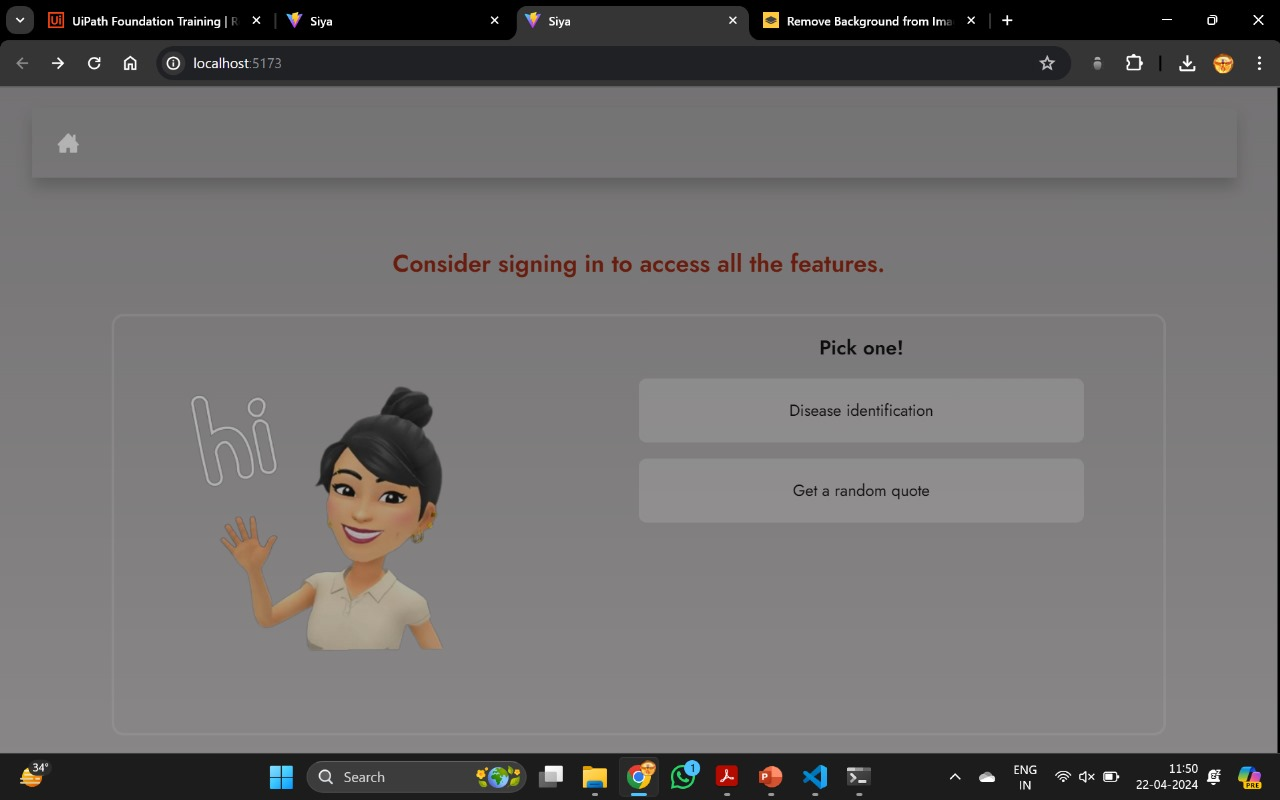
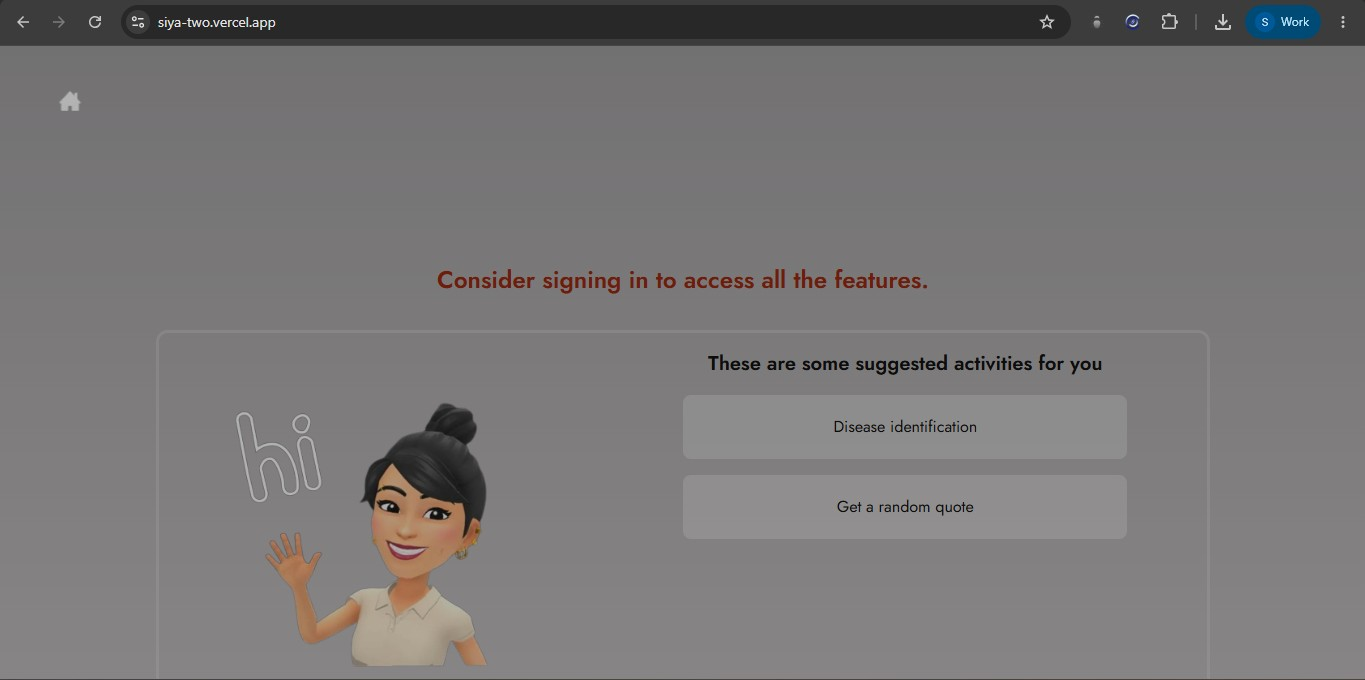
Refactor the hero desing , personal and project info

diff --git a/src/components/Hero.jsx b/src/components/Hero.jsx
@@ -1,14 +1,18 @@
 import { personalInfo } from '../data/personalInfo'
 
 const codeLines = [
-  'const agent = await createAgent({ tools, model: "gpt-4o" });',
-  'router.post("/api/query", auth, async (req, res) => {',
-  '  const sql = await textToSql(req.body.prompt);',
-  'export default function useForecast(series) {',
-  'db.collection("tickets").aggregate([{ $group: { _id: "$status" } }])',
-  'if (camel.score < threshold) emitEarlyWarning(bank.id);',
+  'router.post("/api/insight/query", authMiddleware, async (req, res) => { const sql = await textToSql(req.body.prompt, bankingSchema); return res.json({ sql }); });',
+  'const camelScore = computeCamelScore({ capital, assetQuality, management, earnings, liquidity }, { adaptiveModel: forecastingRouter.select(bankId) });',
+  'router.get("/api/ews/alerts", authMiddleware, async (req, res) => { const alerts = await scanRiskThresholds(camelScore); return res.status(200).json(alerts); });',
+  'router.post("/api/notes", authMiddleware, rateLimiter, async (req, res) => { const note = await Note.create({ ...req.body, userId: req.user.id }); return res.json(note); });',
+  'const diagnosis = await predictDisease(symptoms, { model: randomForestClassifier, datasetRows: 4920, confidenceThreshold: 0.72 });',
+  'router.post("/api/siya/predict", async (req, res) => { const result = await diagnosisEngine.run(req.body.symptoms); return res.json(result); });',
+  'const activityLabel = resNetClassifier.predict(sensorWindow, { accuracy: 0.97, classes: activityLabels, device: "edge-realtime" });',
+  'router.post("/api/har/classify", async (req, res) => { const label = await resNetClassifier.predict(req.body.frames); return res.json({ label }); });',
+  'const githubAnswer = await retrievalChain.invoke({ query: req.body.question, retriever: githubReadOnlyRetriever, llm: azureOpenAI });',
+  'router.post("/api/github-agent/ask", authMiddleware, async (req, res) => { const answer = await githubAgent.answer(req.body.question); return res.json({ answer }); });',
 ]
-const codeRain = Array.from({ length: 40 }, (_, i) => codeLines[i % 6]).join('\n')
+const codeRain = Array.from({ length: 60 }, (_, i) => codeLines[i % codeLines.length]).join('\n')
 
 export default function Hero() {
   const { name, role, roleSecondary, tagline, stats } = personalInfo

diff --git a/src/components/Projects.jsx b/src/components/Projects.jsx
@@ -3,8 +3,9 @@ import aiwrite from '../assets/project/aiwrite.jpg'
 import human from '../assets/project/human.jpg'
 import notesApp from '../assets/project/notes_app.png'
 import siya from '../assets/project/siya.jpg'
+import github from '../assets/project/github.png'
 
-const thumbs = { 'aiwrite.jpg': aiwrite, 'human.jpg': human, 'notes_app.png': notesApp, 'siya.jpg': siya }
+const thumbs = { 'aiwrite.jpg': aiwrite, 'human.jpg': human, 'notes_app.png': notesApp, 'siya.jpg': siya, 'github.png': github }
 
 function ProjectCard({ project }) {
   const { title, desc, tags, liveUrl, ghUrl, path, thumb } = project
@@ -13,9 +14,9 @@ function ProjectCard({ project }) {
   return (
     <div className="bg-surface border border-border flex flex-col transition-[border-color,box-shadow] duration-[250ms] hover:border-green hover:shadow-[0_0_0_1px_rgba(57,255,136,.25),0_0_34px_rgba(57,255,136,.14)]">
       {/* Thumbnail */}
-      <div className="group relative aspect-video border-b border-border bg-raised flex items-center justify-center grayscale contrast-[1.05] transition-[filter] duration-500 overflow-hidden hover:grayscale-0">
+      <div className="group relative aspect-video border-b border-border bg-raised flex items-center justify-center overflow-hidden">
         {thumbSrc ? (
-          <img src={thumbSrc} alt={title} className="w-full h-full object-cover" />
+          <img src={thumbSrc} alt={title} className="w-full h-full object-cover object-top transition-transform duration-500 group-hover:scale-105" />
         ) : (
           <span className="font-mono text-[11px] text-dim">[ thumbnail ]</span>
         )}
@@ -75,7 +76,7 @@ export default function Projects() {
         <span className="hidden lg:block font-mono text-xs text-muted shrink-0">ls ~/projects · {projects.length} items</span>
       </div>
 
-      <div className="grid grid-cols-1 md:grid-cols-2 lg:grid-cols-3 gap-[22px]">
+      <div className="grid grid-cols-1 md:grid-cols-2 gap-[22px]">
         {projects.map((p, i) => <ProjectCard key={i} project={p} />)}
       </div>
     </section>

diff --git a/src/data/personalInfo.js b/src/data/personalInfo.js
@@ -1,7 +1,7 @@
 // Edit this file to update all personal/site content across the portfolio.
 export const personalInfo = {
   name: 'Siva Sriram A B',
-  role: 'AI Developer',
+  role: 'AI Engineer',
   roleSecondary: 'Full Stack (MERN)',
   tagline: 'Building AI-powered applications and full-stack solutions that solve real-world problems.',
   bio: 'Building AI-powered applications and full-stack solutions that solve real-world problems. Day to day that means LLM pipelines, forecasting systems and the React/Node surfaces that make them usable.',
@@ -9,7 +9,7 @@ export const personalInfo = {
   githubUsername: 'SivaPhoenix', // used for GitHub contribution calendar + socials
 
   stats: [
-    { v: '8+', k: 'PROJECTS SHIPPED' },
+    { v: '6+', k: 'PROJECTS SHIPPED' },
     { v: 'AI-103', k: 'AZURE CERTIFIED' },
     { v: 'MERN', k: 'FULL STACK' },
   ],
@@ -22,7 +22,7 @@ export const personalInfo = {
     { n: 'Python', c: '#E5C07B' }, { n: 'React', c: '#61AFEF' }, { n: 'Node.js', c: '#98C379' },
     { n: 'Express', c: '#E5C07B' }, { n: 'MongoDB', c: '#98C379' }, { n: 'TypeScript', c: '#61AFEF' },
     { n: 'LangChain', c: '#C678DD' }, { n: 'Azure OpenAI', c: '#C678DD' }, { n: 'FastAPI', c: '#56B6C2' },
-    { n: 'PyTorch', c: '#E06C75' }, { n: 'PostgreSQL', c: '#56B6C2' }, { n: 'Docker', c: '#61AFEF' },
+    { n: 'PyTorch', c: '#E06C75' }, { n: 'PostgreSQL', c: '#56B6C2' }, { n: 'ML', c: '#C678DD' }, { n: 'AI Agents', c: '#39FF88' }, { n: 'RAG', c: '#1654daff' },
     { n: 'Tailwind', c: '#56B6C2' }, { n: 'Git', c: '#E06C75' },
   ],
 
@@ -36,6 +36,10 @@ export const personalInfo = {
     { n: 'PyCharm', icon: 'pycharm' },
     { n: 'Netlify', icon: 'netlify' },
     { n: 'Figma', icon: 'figma' },
+    { n: 'Gemini', icon: 'gemini' },
+    { n: 'Claude', icon: 'claude' },
+    { n: 'Kaggle', icon: 'kaggle' },
+    { n: 'Hugging Face', icon: 'huggingface' },
   ],
 
   phone: '+91 88382 70416', // fill in your phone number, e.g. '+91 98765 43210'

diff --git a/src/data/projects.js b/src/data/projects.js
@@ -2,7 +2,7 @@ export const projects = [
   {
     title: "AI Insight (Text-to-SQL Platform)",
     desc: "Converts natural language into SQL and auto-generates MIS/financial reports for banking using LLMs.",
-    tags: ["Python", "LangChain", "React"],
+    tags: ["Python", "LangChain", "RAG","LLM","Redis","Qdrant"],
     liveUrl: null,
     ghUrl: null,
     path: "~/projects/ai-insight",
@@ -10,18 +10,10 @@ export const projects = [
   {
     title: "Early Warning System — CAMEL Forecasting",
     desc: "AI forecasting platform for banking CAMEL metrics with adaptive model routing and risk signals.",
-    tags: ["Python", "FastAPI", "ML"],
+    tags: ["Python", "ML","Data Treatment"],
     liveUrl: null,
     ghUrl: null,
     path: "~/projects/ews-camel",
-  },
-  {
-    title: "Sunoida Support Ticket Analytics",
-    desc: "Support ticket analytics dashboard with KPI visualization and trend analysis.",
-    tags: ["React", "Node.js", "MongoDB"],
-    liveUrl: null,
-    ghUrl: null,
-    path: "~/projects/sunoida",
   },
   {
     title: "Notes App (MERN)",
@@ -53,9 +45,10 @@ export const projects = [
   {
     title: "GitHub AI Agent (Concept)",
     desc: "Conversational agent with read-only GitHub access that answers repository questions in natural language.",
-    tags: ["LangChain", "GitHub API", "Python"],
+    tags: ["LangChain", "GitHub API", "Python","LLM","AI Agent"],
     liveUrl: null,
     ghUrl: null,
-    path: "~/projects/gh-agent",
+    path: "~/projects/github",
+    thumb:"github.png"
   },
 ];

diff --git a/src/components/About.jsx b/src/components/About.jsx
@@ -4,6 +4,7 @@ import { personalInfo } from '../data/personalInfo'
 import {
   SiVercel, SiAnaconda,
   SiRender, SiAndroidstudio, SiPycharm, SiNetlify, SiFigma,
+  SiGooglegemini, SiClaude, SiKaggle, SiHuggingface,
 } from 'react-icons/si'
 import { PiImageBold } from 'react-icons/pi'
 import { TbBrandVisualStudio } from 'react-icons/tb'
@@ -18,6 +19,10 @@ const toolIcons = {
   pycharm: SiPycharm,
   netlify: SiNetlify,
   figma: SiFigma,
+  gemini: SiGooglegemini,
+  claude: SiClaude,
+  kaggle: SiKaggle,
+  huggingface: SiHuggingface,
 }
 
 export default function About() {
@@ -39,7 +44,7 @@ export default function About() {
         <TerminalWindow title="bash — about">
           <div className="px-[22px] py-6 font-mono text-[13.5px] leading-[1.95]">
             <div className="text-green">$ whoami</div>
-            <div className="text-text my-1.5 mb-[22px]">{name} — AI Developer &amp; Full Stack Developer (MERN)</div>
+            <div className="text-text my-1.5 mb-[22px]">{name} — AI Engineer &amp; Full Stack Developer (MERN)</div>
 
             <div className="text-green">$ cat bio.txt</div>
             <div className="text-muted my-1.5 mb-[22px] max-w-[60ch]">
